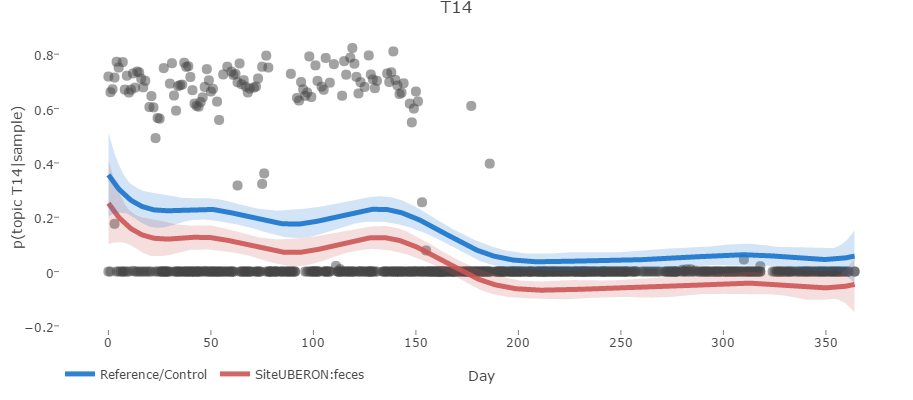
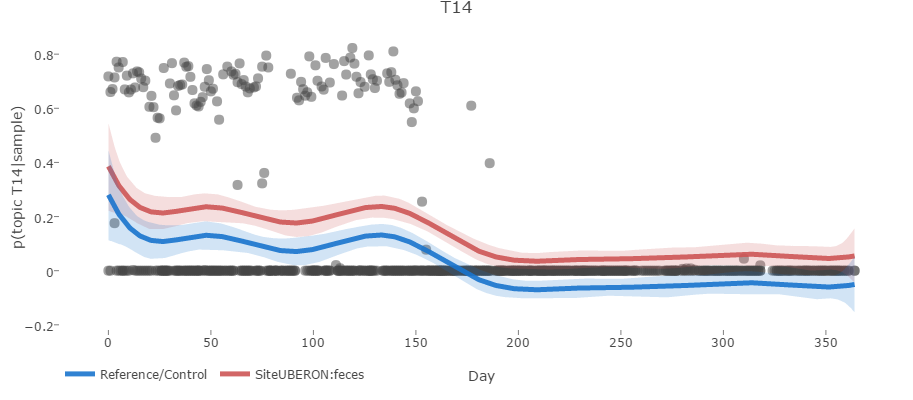
fixed issue in est effects where fitted and fitted_switch were swapped; ditched spearman for sd for splines; updated cran comments; fixed vignette based on updates; fixed vis doc based on updates

diff --git a/cran-comments.md b/cran-comments.md
@@ -1,4 +1,4 @@
-This is a submission 
+This is a submission (first release)
 
 ---
 
@@ -7,7 +7,7 @@ This is a submission
 * OS X Sierra (local machine): R 3.3.1
 * ubuntu 12.04 (travis-ci): R-release, R-devel
 * ubuntu 16.10 (local machine): R 3.3.2 
-* win-builder: R-release
+* win-builder: R-release, R-devel
 * windows 10 Pro (local machine): MRO 3.3.3
 
 ## R CMD check results
@@ -19,4 +19,4 @@ This is a submission
   
 ## Downstream dependencies
 
-* None (submission)
+* None (first release)
